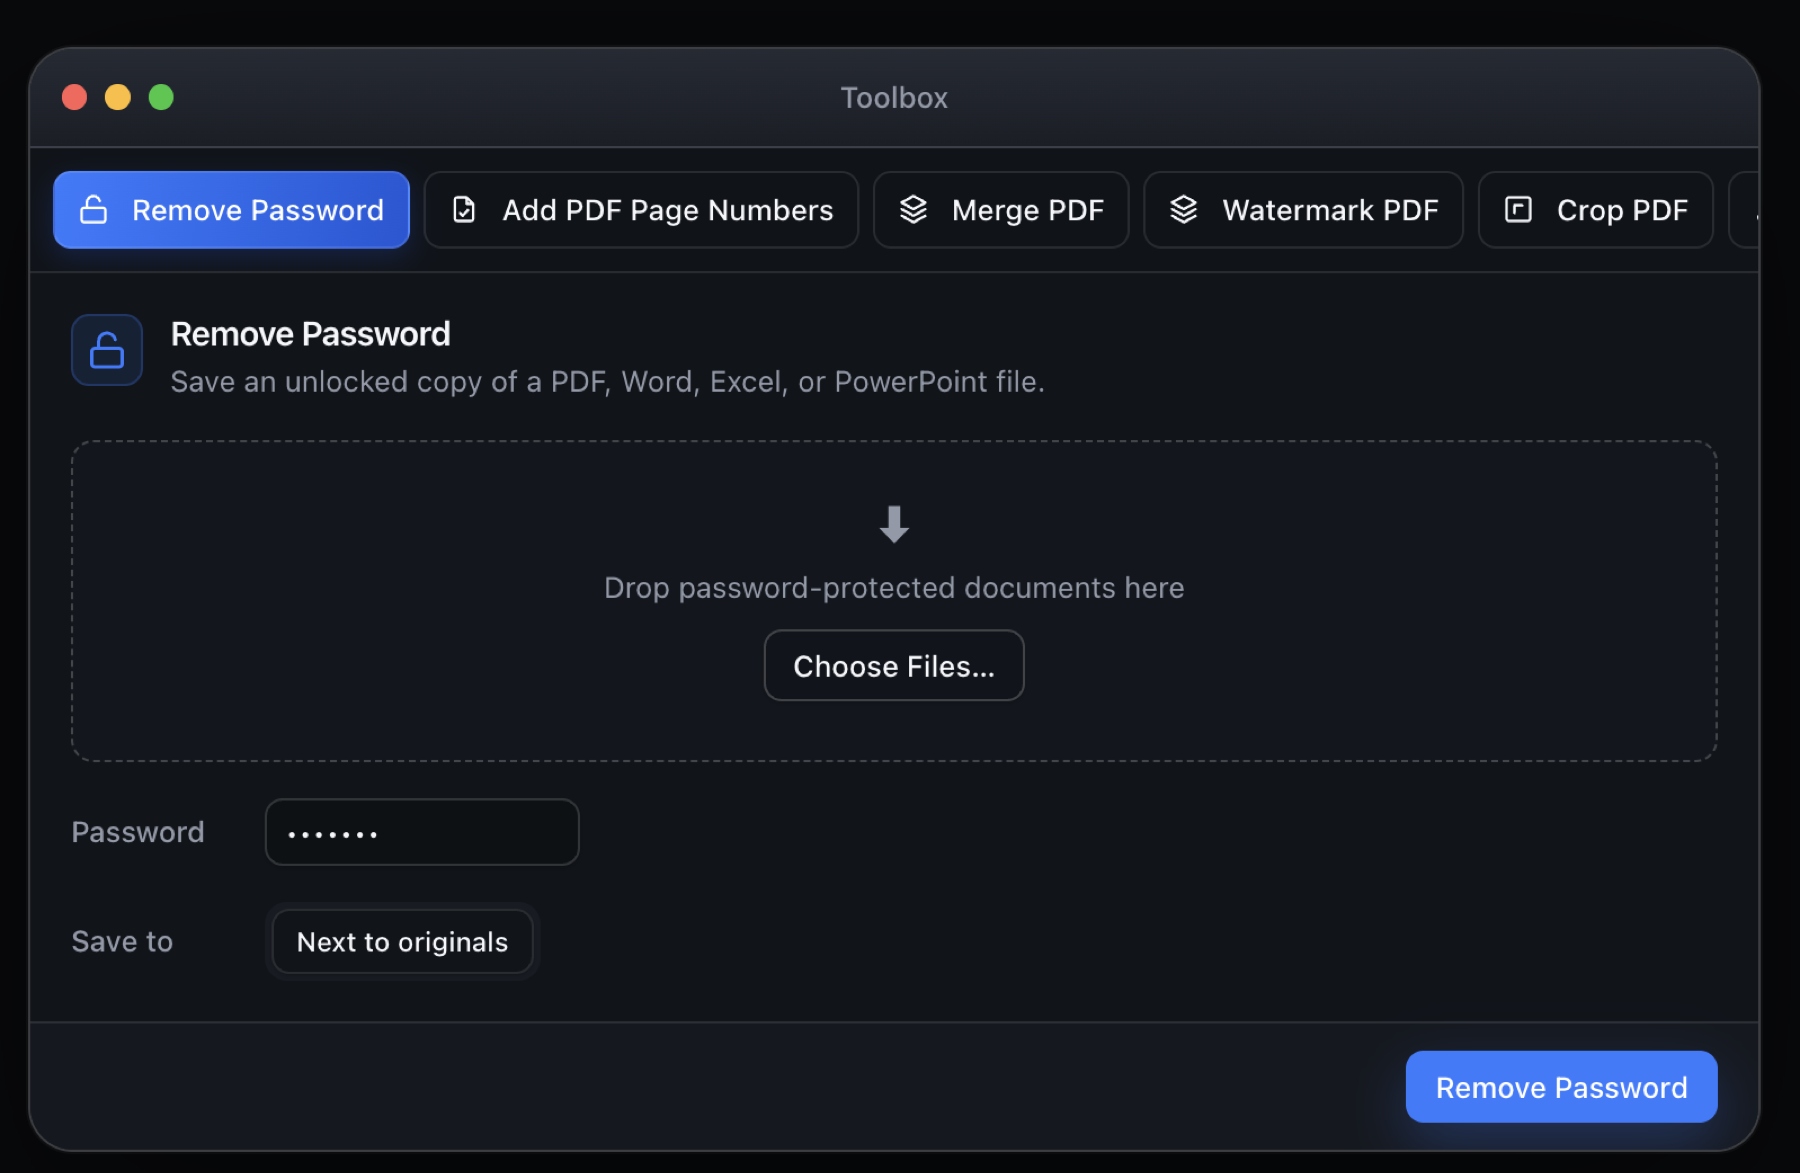
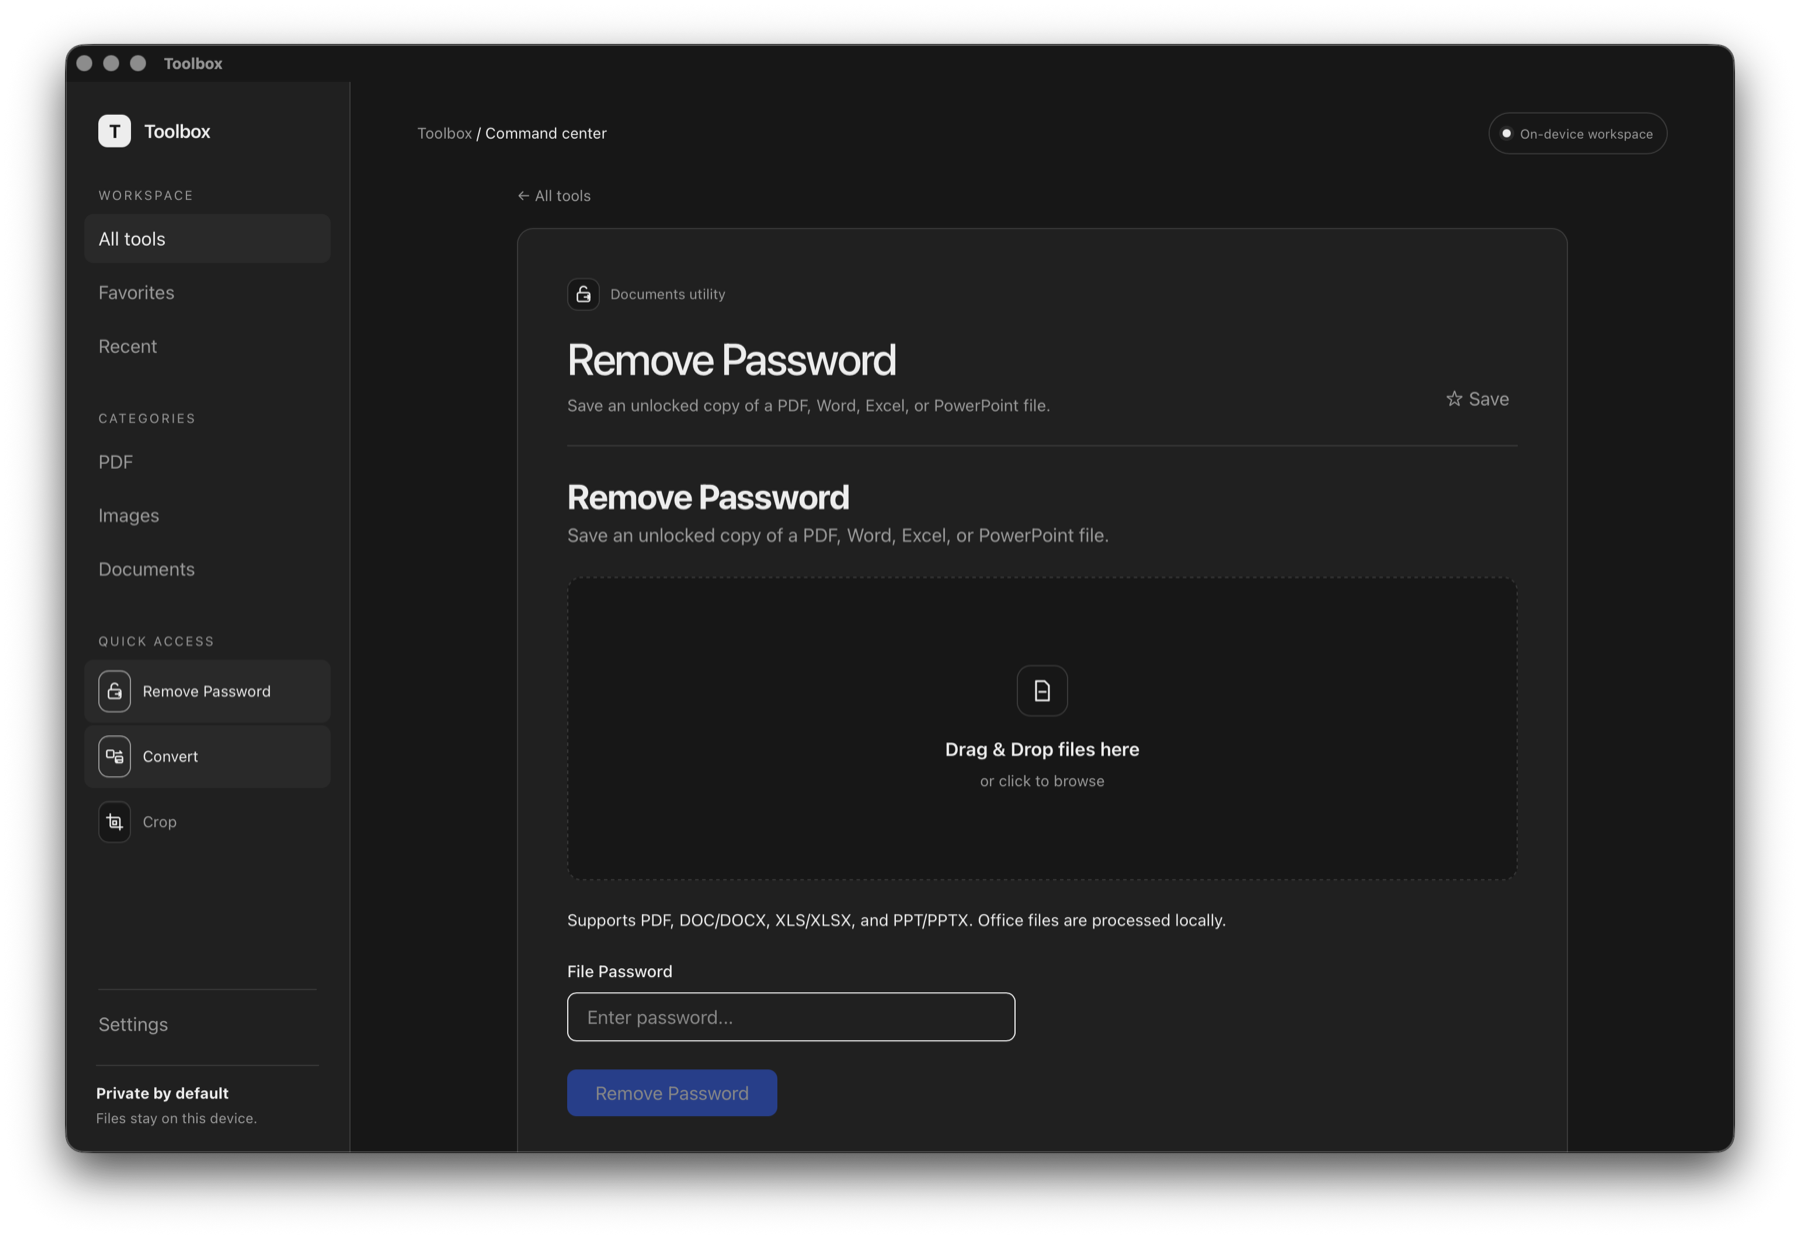
docs: refresh app screenshots

diff --git a/docs/index.html b/docs/index.html
@@ -180,16 +180,24 @@
       <div class="screenshots-heading">
         <p class="kicker">Inside Toolbox</p>
         <h2 id="screenshots-title">A focused workspace for real file work.</h2>
-        <p>See the current Tauri app: a command center for the full catalog and a focused view for password protected documents.</p>
+        <p>Captured from Toolbox 0.2.0 on macOS, with the home workspace, focused file tools, and settings.</p>
       </div>
       <div class="screenshot-grid">
         <figure class="screenshot-card">
-          <div class="screenshot-frame"><img src="assets/screenshot-command-center.png" alt="Toolbox command center showing the tool library and recent tools" loading="lazy"></div>
-          <figcaption><strong>Command center</strong><span>Find any file action quickly.</span></figcaption>
+          <div class="screenshot-frame"><img src="assets/screenshot-command-center.png" alt="Toolbox home workspace showing the command center and tool library" loading="lazy"></div>
+          <figcaption><strong>Home workspace</strong><span>Browse local file utilities from one focused command center.</span></figcaption>
         </figure>
         <figure class="screenshot-card">
           <div class="screenshot-frame"><img src="assets/screenshot-remove-password.png" alt="Toolbox Remove Password screen with a document drop area and password field" loading="lazy"></div>
-          <figcaption><strong>Remove Password</strong><span>Process a PDF or Office file locally, then save an unlocked copy beside the original.</span></figcaption>
+          <figcaption><strong>Remove Password</strong><span>Unlock a PDF or Office file locally, then save a copy beside the original.</span></figcaption>
+        </figure>
+        <figure class="screenshot-card">
+          <div class="screenshot-frame"><img src="assets/screenshot-convert-image-format.png" alt="Toolbox Convert Image Format screen with PNG, JPEG, WebP, and HEIC choices" loading="lazy"></div>
+          <figcaption><strong>Convert Image Format</strong><span>Choose a target format in a focused image workflow.</span></figcaption>
+        </figure>
+        <figure class="screenshot-card">
+          <div class="screenshot-frame"><img src="assets/screenshot-settings.png" alt="Toolbox settings panel showing theme controls, version 0.2.0, and support QR code" loading="lazy"></div>
+          <figcaption><strong>Settings</strong><span>Switch themes, confirm the installed version, and support development.</span></figcaption>
         </figure>
       </div>
     </section>
